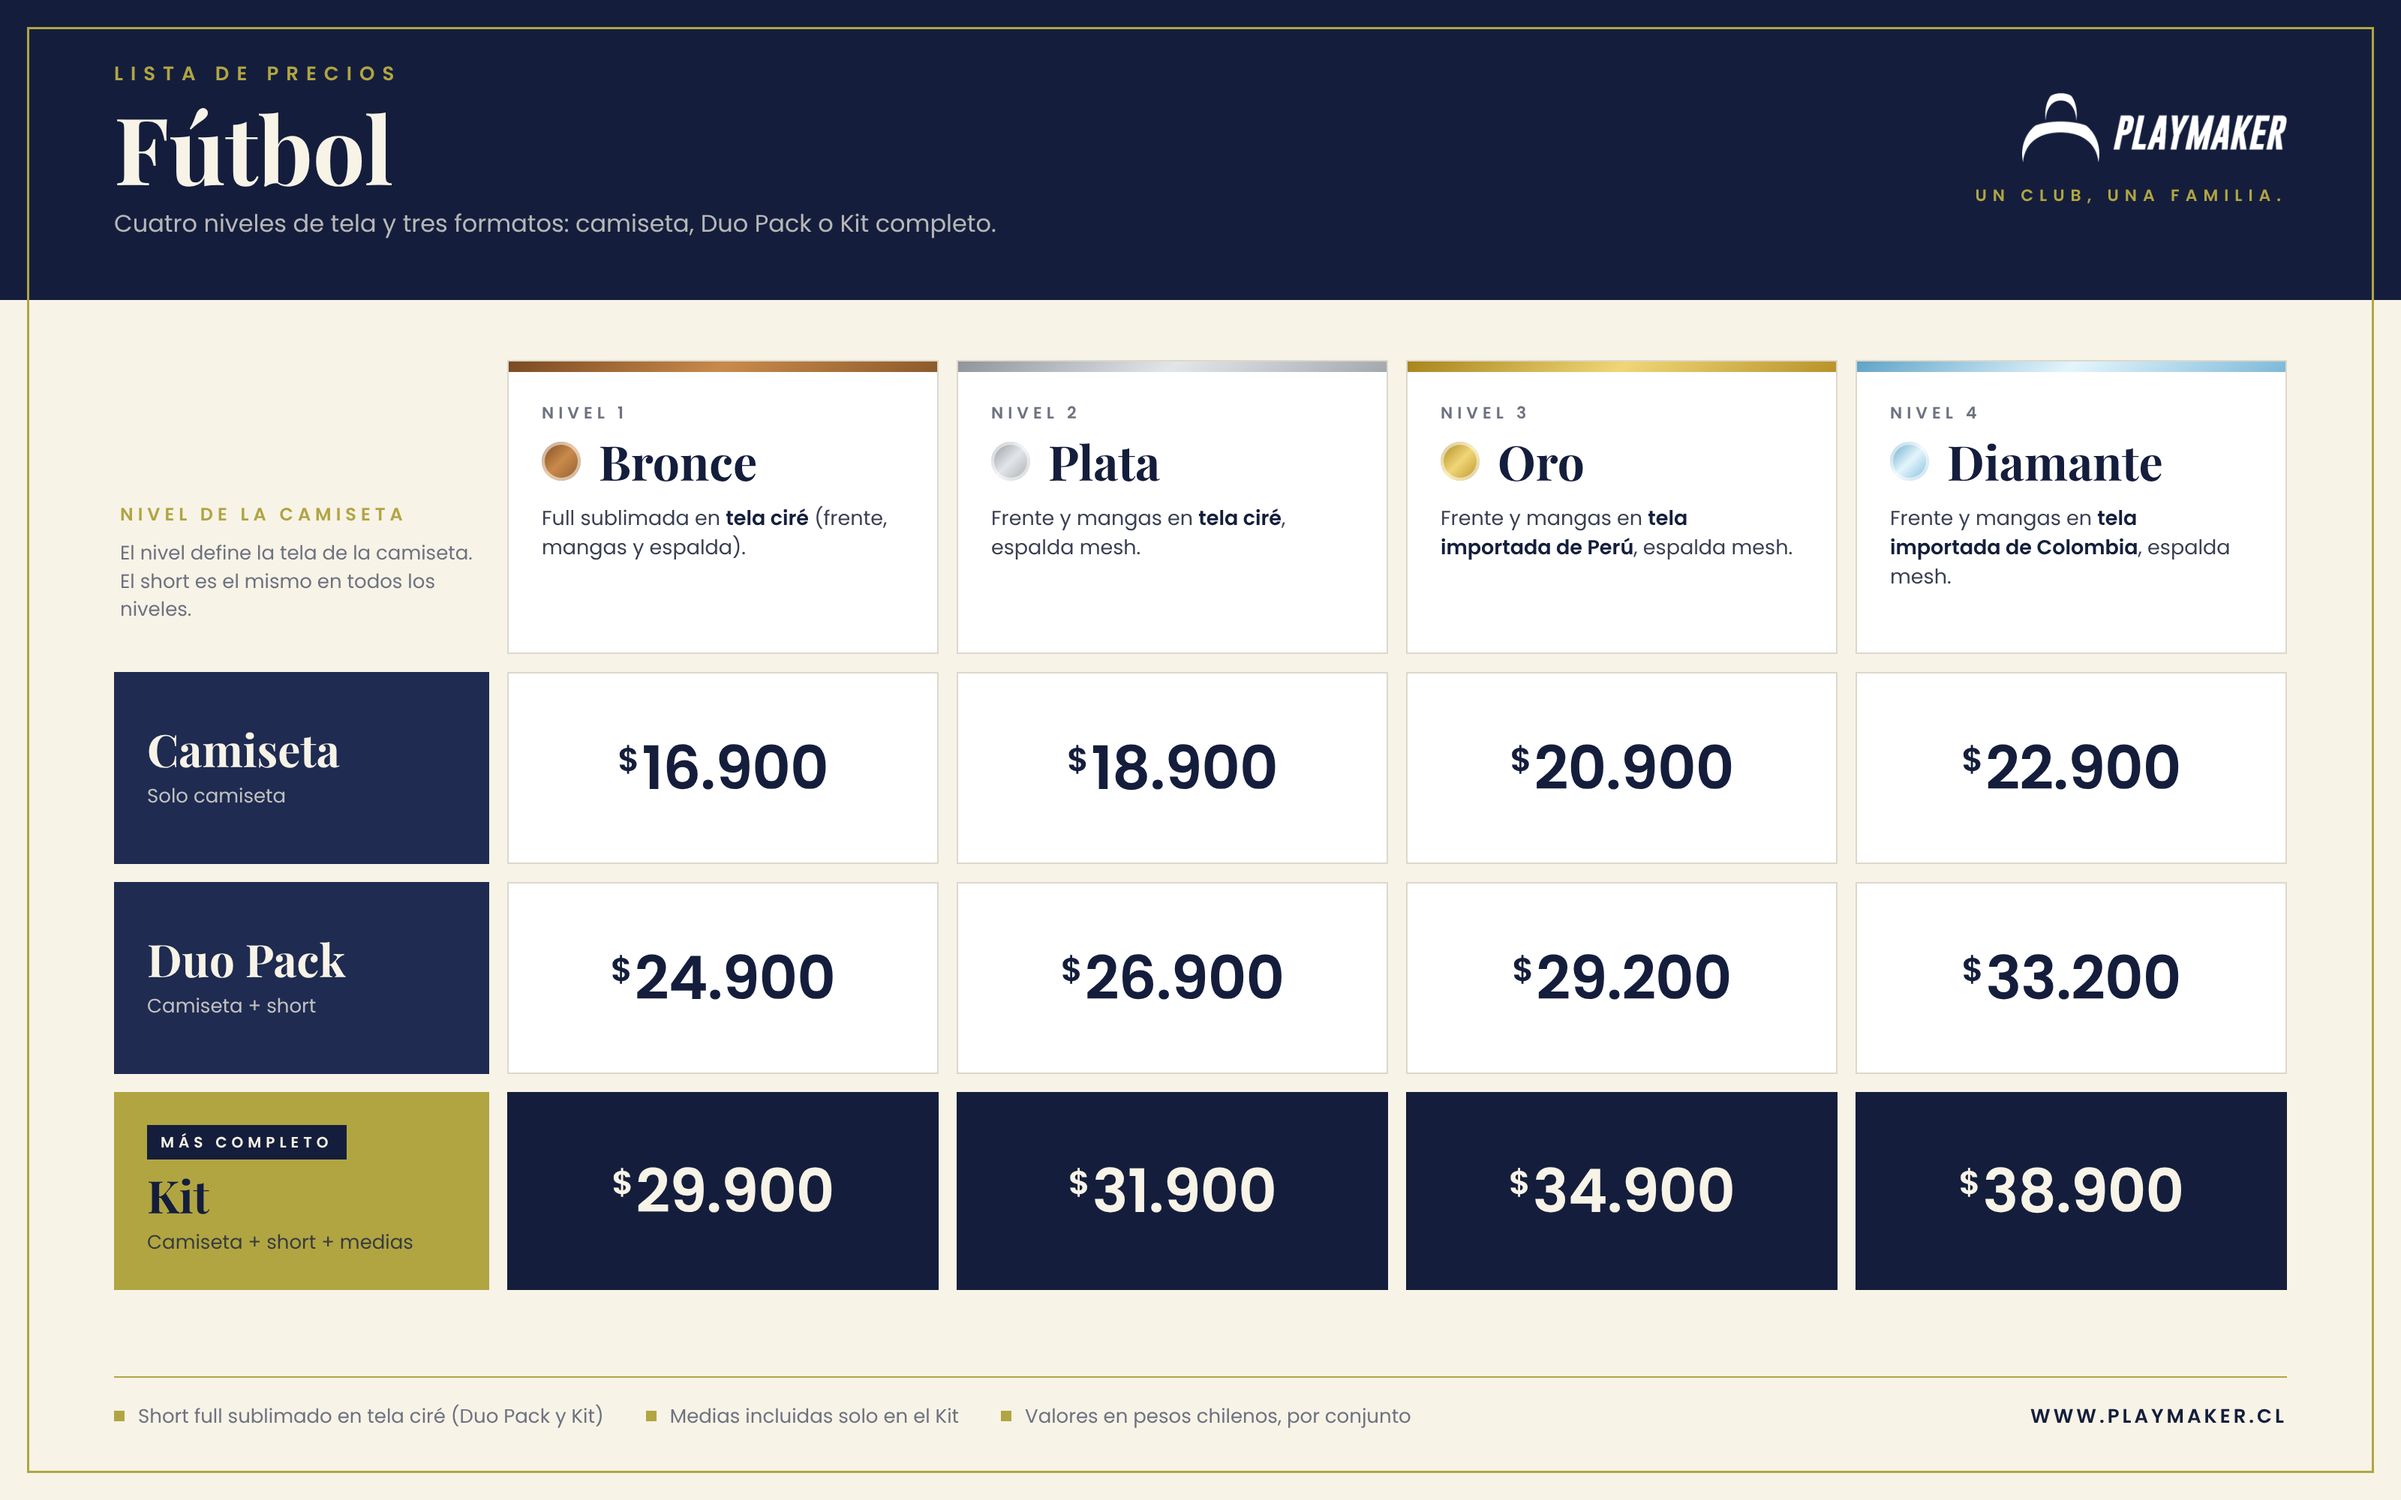
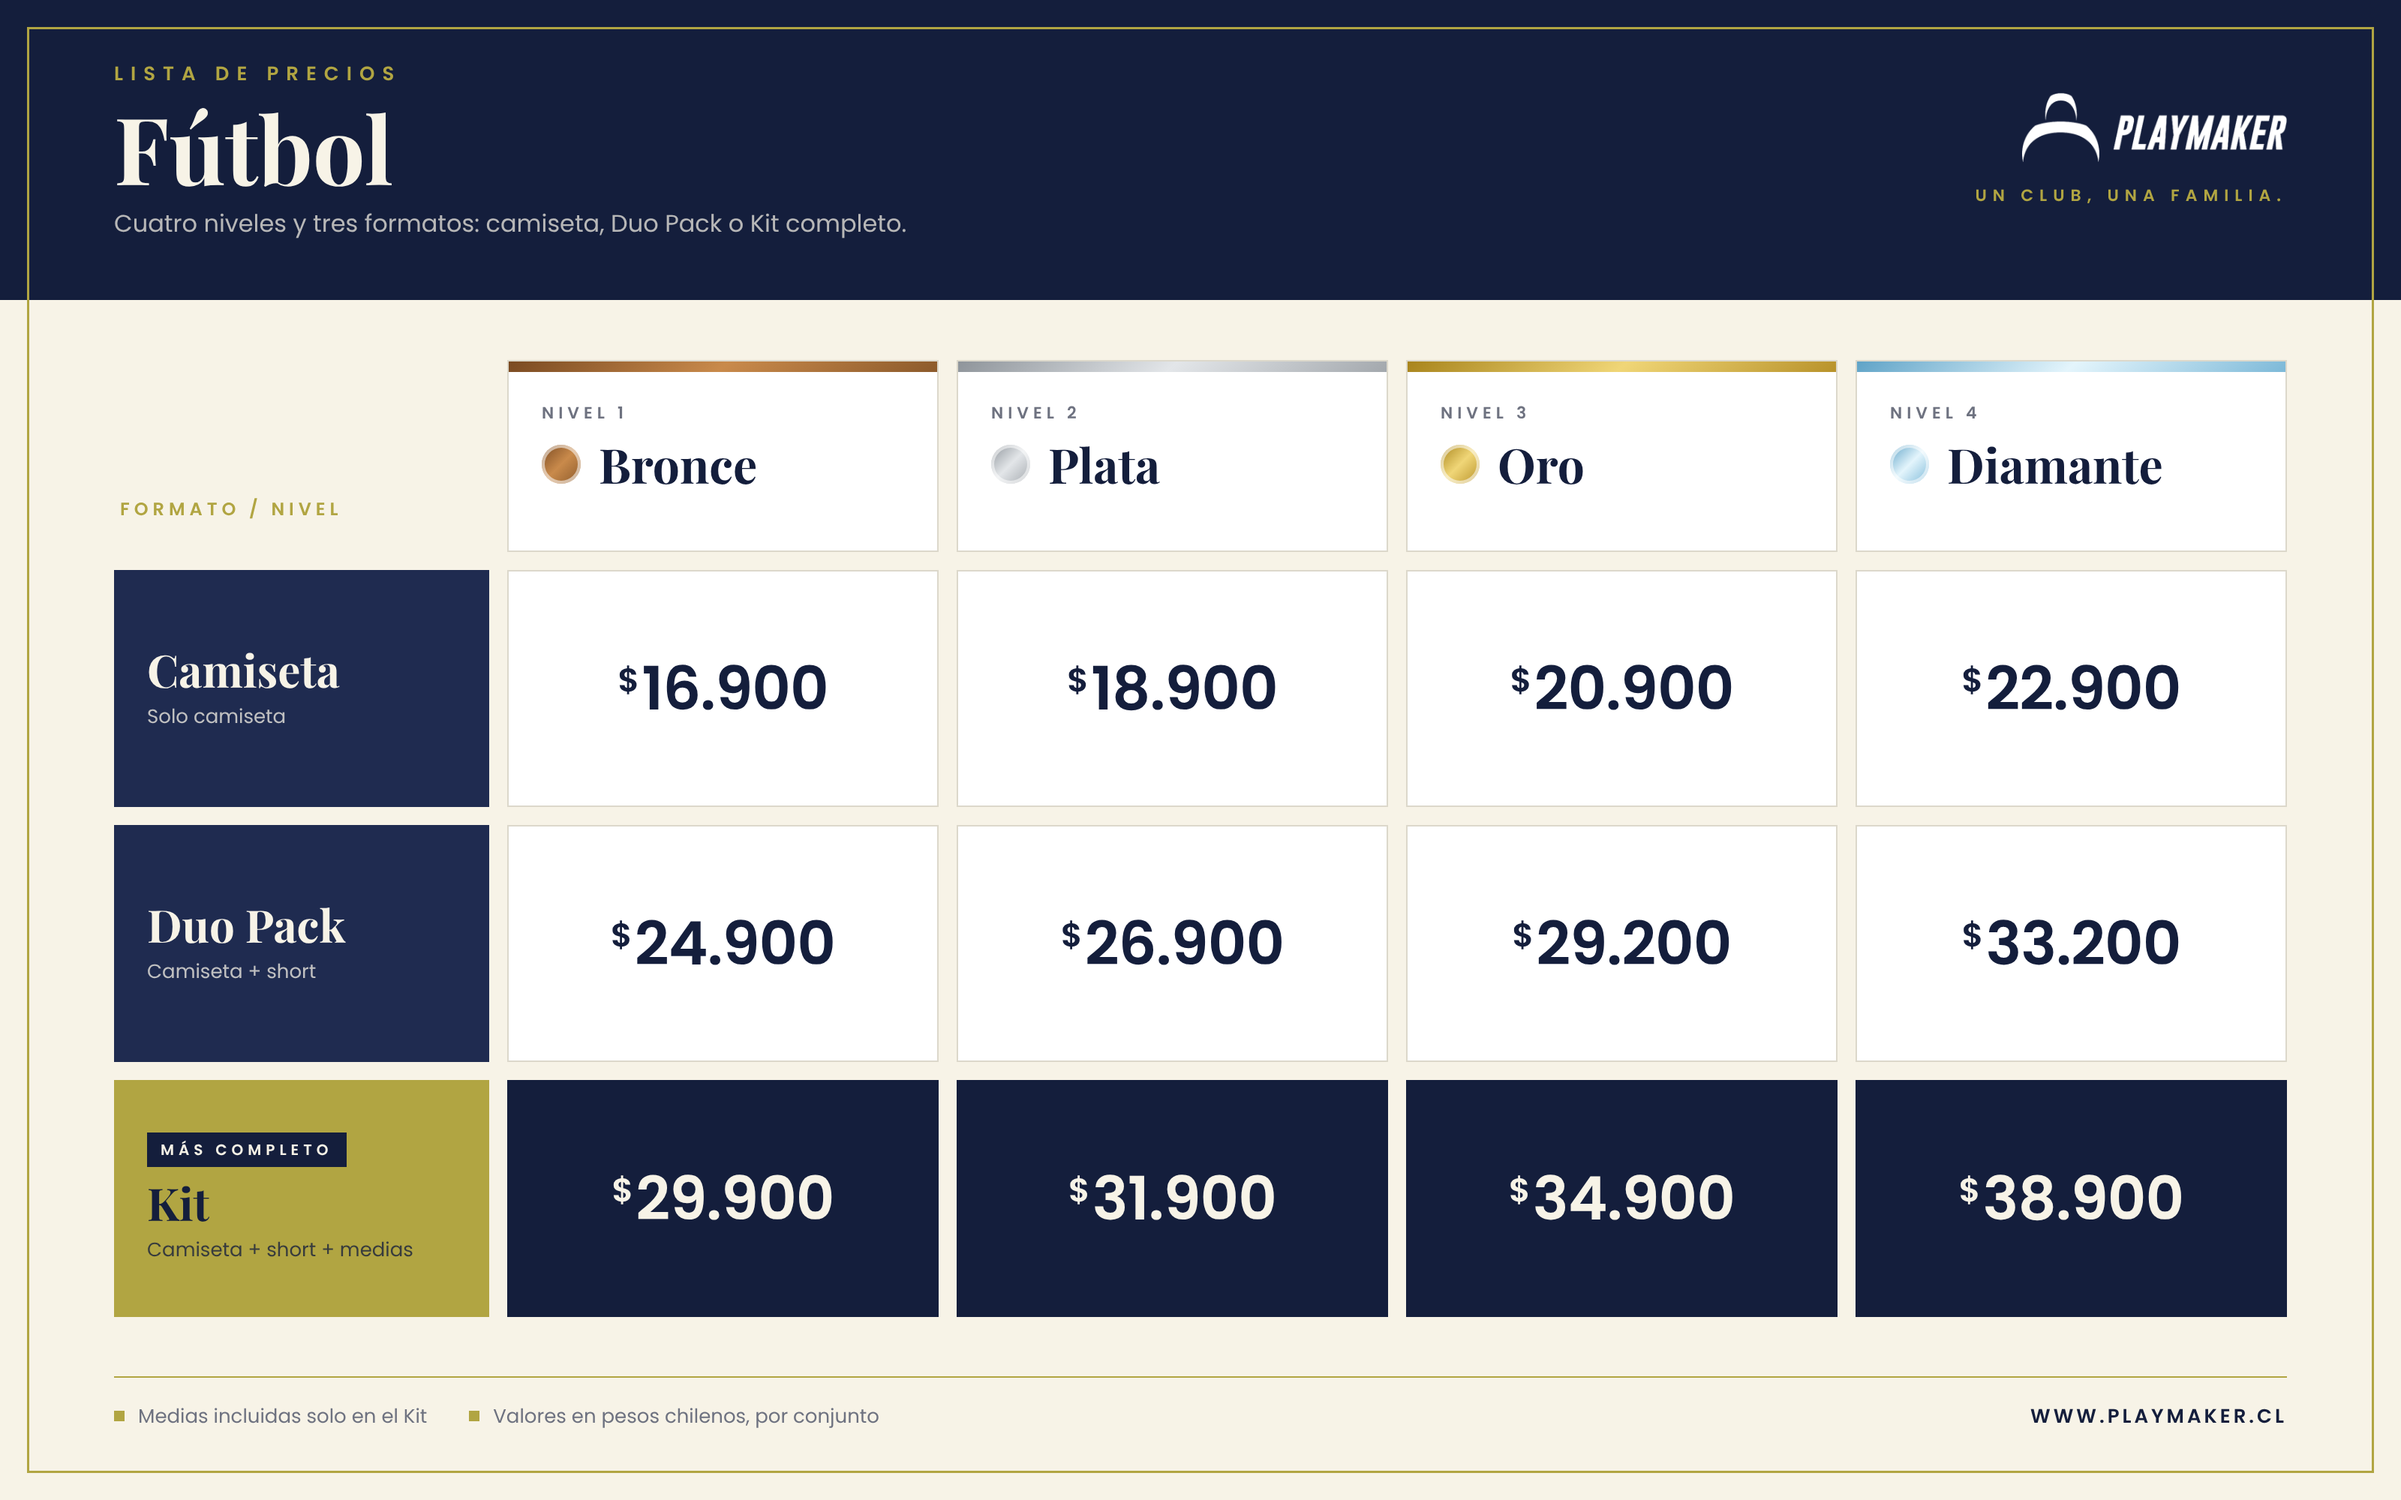
Lista de precios Futbol: sin detalles de telas
Claude-Session: https://claude.ai/code/session_01Npp7cfhy4Bfb8uTr3aoAUF

diff --git a/propuestas/listas-de-precios/lista_precios_futbol.html b/propuestas/listas-de-precios/lista_precios_futbol.html
@@ -39,14 +39,12 @@
   .grilla { display: grid; grid-template-columns: 250px repeat(4, 1fr); gap: 12px; }
 
   /* encabezados de nivel */
-  .nivel { background: var(--blanco); border: 1px solid var(--linea); position: relative; padding: 26px 22px 20px; min-height: 196px; }
+  .nivel { background: var(--blanco); border: 1px solid var(--linea); position: relative; padding: 26px 22px 20px; min-height: 128px; }
   .nivel::before { content: ""; position: absolute; left: 0; right: 0; top: 0; height: 7px; background: var(--metal); }
   .nivel .num { font-size: 11px; letter-spacing: 3px; font-weight: 600; color: var(--gris); }
-  .nivel .nombre { display: flex; align-items: center; gap: 12px; margin: 8px 0 12px; }
+  .nivel .nombre { display: flex; align-items: center; gap: 12px; margin: 10px 0 4px; }
   .nivel .nombre i { width: 26px; height: 26px; border-radius: 50%; background: var(--metal); box-shadow: inset 0 0 0 2px rgba(255,255,255,.55); flex: none; }
   .nivel .nombre b { font-family: "Playfair"; font-size: 32px; color: var(--navy); line-height: 1; }
-  .nivel p { font-size: 13.5px; line-height: 1.45; color: #3A3F52; }
-  .nivel p em { font-style: normal; font-weight: 600; color: var(--navy); }
 
   .bronce   { --metal: linear-gradient(135deg, #7A4A22, #C98A4B 50%, #8C5A2B); }
   .plata    { --metal: linear-gradient(135deg, #8E949A, #E3E6E9 50%, #A3A8AD); }
@@ -55,13 +53,12 @@
 
   .esquina { display: flex; flex-direction: column; justify-content: flex-end; padding: 0 4px 20px; }
   .esquina .kicker { color: var(--oro-marca); letter-spacing: 3px; font-size: 12px; }
-  .esquina p { font-size: 13px; color: var(--gris); margin-top: 8px; line-height: 1.45; }
 
   /* filas de formato */
   .formato { background: var(--navy-2); color: var(--marfil); padding: 22px 22px; display: flex; flex-direction: column; justify-content: center; }
   .formato b { font-family: "Playfair"; font-size: 30px; line-height: 1.05; }
   .formato span { font-size: 13px; color: rgba(247, 243, 231, .75); margin-top: 6px; }
-  .precio { background: var(--blanco); border: 1px solid var(--linea); display: flex; align-items: center; justify-content: center; min-height: 128px; }
+  .precio { background: var(--blanco); border: 1px solid var(--linea); display: flex; align-items: center; justify-content: center; min-height: 158px; }
   .precio strong { font-weight: 600; font-size: 40px; color: var(--navy); letter-spacing: -.5px; }
   .precio strong small { font-size: 22px; vertical-align: 12px; margin-right: 2px; font-weight: 600; }
 
@@ -86,7 +83,7 @@
   <div class="izq">
     <div class="kicker">LISTA DE PRECIOS</div>
     <h1>Fútbol</h1>
-    <div class="bajada">Cuatro niveles de tela y tres formatos: camiseta, Duo Pack o Kit completo.</div>
+    <div class="bajada">Cuatro niveles y tres formatos: camiseta, Duo Pack o Kit completo.</div>
   </div>
   <div class="der">
     <img src="../_recursos/playmaker_logo_horizontal_blanco.png" alt="Playmaker">
@@ -100,7 +97,6 @@
 
 <footer>
   <ul>
-    <li>Short full sublimado en tela ciré (Duo Pack y Kit)</li>
     <li>Medias incluidas solo en el Kit</li>
     <li>Valores en pesos chilenos, por conjunto</li>
   </ul>
@@ -110,10 +106,10 @@
 <script>
   // ---------------- datos
   const NIVELES = [
-    { clase: "bronce",   nombre: "Bronce",   camiseta: "Full sublimada en <em>tela ciré</em> (frente, mangas y espalda)." },
-    { clase: "plata",    nombre: "Plata",    camiseta: "Frente y mangas en <em>tela ciré</em>, espalda mesh." },
-    { clase: "oro",      nombre: "Oro",      camiseta: "Frente y mangas en <em>tela importada de Perú</em>, espalda mesh." },
-    { clase: "diamante", nombre: "Diamante", camiseta: "Frente y mangas en <em>tela importada de Colombia</em>, espalda mesh." },
+    { clase: "bronce",   nombre: "Bronce" },
+    { clase: "plata",    nombre: "Plata" },
+    { clase: "oro",      nombre: "Oro" },
+    { clase: "diamante", nombre: "Diamante" },
   ];
   const FORMATOS = [
     { nombre: "Camiseta", incluye: "Solo camiseta",             precios: [16900, 18900, 20900, 22900] },
@@ -125,11 +121,10 @@
   const g = document.getElementById("grilla");
   const fmt = n => n.toLocaleString("es-CL").replace(/,/g, ".");
   g.insertAdjacentHTML("beforeend",
-    `<div class="esquina"><div class="kicker">NIVEL DE LA CAMISETA</div>
-     <p>El nivel define la tela de la camiseta. El short es el mismo en todos los niveles.</p></div>`);
+    `<div class="esquina"><div class="kicker">FORMATO / NIVEL</div></div>`);
   NIVELES.forEach((n, i) => g.insertAdjacentHTML("beforeend",
     `<div class="nivel ${n.clase}"><div class="num">NIVEL ${i + 1}</div>
-     <div class="nombre"><i></i><b>${n.nombre}</b></div><p>${n.camiseta}</p></div>`));
+     <div class="nombre"><i></i><b>${n.nombre}</b></div></div>`));
   FORMATOS.forEach(f => {
     const d = f.destacado ? " destacado" : "";
     g.insertAdjacentHTML("beforeend",
